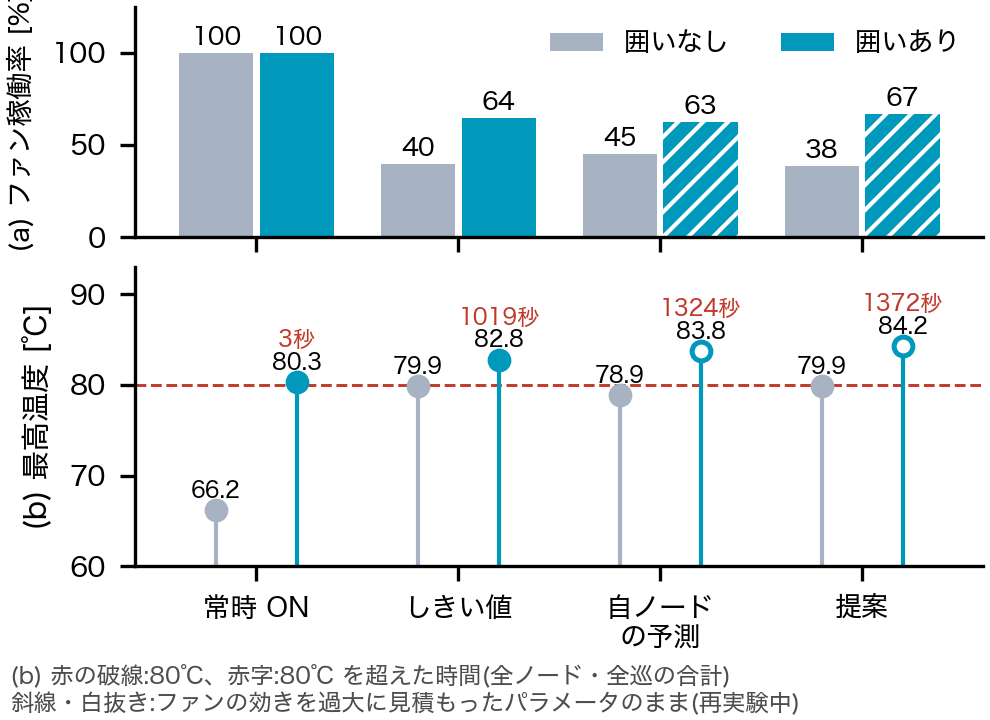
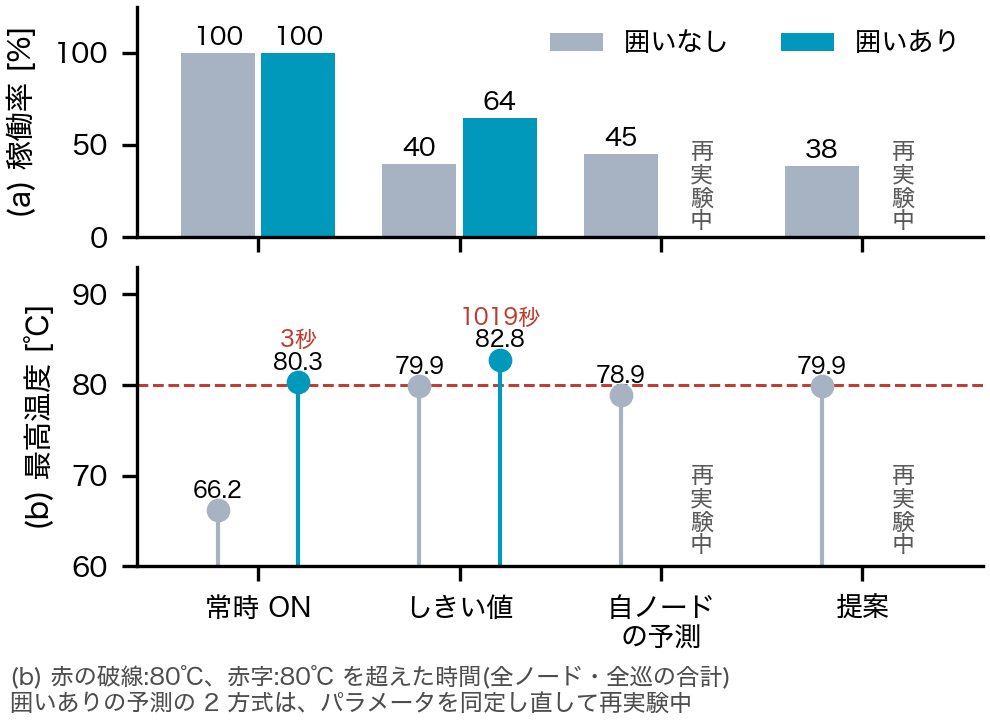
Q3 の図:誤ったパラメータで動かした予測の 2 方式(囲いあり)は本文から外し「再実験中」に。元の図は fig_res_fan_box1125.png(予備スライド用)

diff --git a/scripts/fig_resume.py b/scripts/fig_resume.py
@@ -116,10 +116,12 @@ if __name__ == "__main__":
     fig_pred()
 
 
-def fig_fan(box_exp="experiments/20261125_box_control", box_label="囲いあり", bad=("self_fixed", "proposed"), wide=False):
+def fig_fan(box_exp="experiments/20261125_box_control", box_label="囲いあり", bad=("self_fixed", "proposed"), wide=False,
+            omit_bad=True, out=None):
     """Q3:方式ごとの (a) ファン稼働率 と (b) 最高温度(全ノード・全巡の最大)。80℃ を超えた時間(合計)は (b) に赤で書く。
     囲いなし = 11/14(3 台 × 3 巡)、囲いあり = box_exp(8 台 × 2 巡)。
     bad:パラメータに誤りがあった方式(11/25 夜はファンの効きを 6 台で過大に見積もっていた)。斜線・白抜きにして注を書く。
+    omit_bad=True(本文用、11/26 にレオと決めた):bad の方式は描かず「再実験中」と書く。False:斜線・白抜きで描く(予備スライド用)
     wide=False はレジュメ用(上下 2 段、fig_res_fan.png)、True はスライド用(横 2 つ、fig_res_fan_wide.png)"""
     conds = [("always", "常時 ON"), ("threshold", "しきい値"), ("self_fixed", "自ノード\nの予測"), ("proposed", "提案")]
     m = pd.read_csv("experiments/20261114_compare/results/control_metrics.csv")
@@ -141,6 +143,10 @@ def fig_fan(box_exp="experiments/20261125_box_control", box_label="囲いあり"
                 continue
             x = i + (j - (len(sets) - 1) / 2) * w
             isbad = cond in badset
+            if isbad and omit_bad:
+                ax1.text(x, 2, "再\n実\n験\n中", ha="center", va="bottom", fontsize=5.5, color="0.35", linespacing=1.0)
+                ax2.text(x, 61, "再\n実\n験\n中", ha="center", va="bottom", fontsize=5.5, color="0.35", linespacing=1.0)
+                continue
             v = g.duty.mean() * 100
             ax1.bar(x, v, w * 0.92, color=c, edgecolor="white", linewidth=0, hatch="////" if isbad else None,
                     label=lab if i == 0 else None)
@@ -152,7 +158,7 @@ def fig_fan(box_exp="experiments/20261125_box_control", box_label="囲いあり"
             if g.over.sum() >= 1:
                 ax2.text(x, t + 3.3, f"{g.over.sum():.0f}秒", ha="center", va="bottom", fontsize=5.3, color="#C0392B")
     ax1.legend(fontsize=6.3, frameon=False, loc="upper right", ncol=2)
-    ax1.set_ylabel("(a) ファン稼働率 [%]", fontsize=6.5 if not wide else 7)
+    ax1.set_ylabel("(a) ファン稼働率 [%]" if wide else "(a) 稼働率 [%]", fontsize=7)
     ax1.set_ylim(0, 125)
     ax1.set_yticks([0, 50, 100])
     ax2.axhline(80, color="#C0392B", lw=0.7, ls="--", zorder=0)
@@ -166,13 +172,15 @@ def fig_fan(box_exp="experiments/20261125_box_control", box_label="囲いあり"
         for s_ in ["top", "right"]:
             ax.spines[s_].set_visible(False)
     note = "(b) 赤の破線:80℃、赤字:80℃ を超えた時間(全ノード・全巡の合計)"
-    if len(sets) > 1 and sets[1][3]:
+    if len(sets) > 1 and sets[1][3] and omit_bad:
+        note += "\n囲いありの予測の 2 方式は、パラメータを同定し直して再実験中"
+    elif len(sets) > 1 and sets[1][3]:
         note += ("\n斜線・白抜き:囲いありの自ノードの予測と提案は、ファンの効きを過大に見積もったパラメータのまま(同定し直して再実験中)"
                  if wide else "\n斜線・白抜き:ファンの効きを過大に見積もったパラメータのまま(再実験中)")
     nl = note.count("\n") + 1
     fig.text(0.01, 0.005, note, ha="left", va="bottom", fontsize=5.6, color="0.3", linespacing=1.25)
     fig.tight_layout(pad=0.2, h_pad=0.4, rect=(0, (0.062 if wide else 0.036) * nl + 0.01, 1, 1))
-    fig.savefig(FIG / ("fig_res_fan_wide.png" if wide else "fig_res_fan.png"), dpi=300)
+    fig.savefig(FIG / (out or ("fig_res_fan_wide.png" if wide else "fig_res_fan.png")), dpi=300)
 
 
 def fig_fanwind(exp=Path("experiments/20261125_box_control")):
